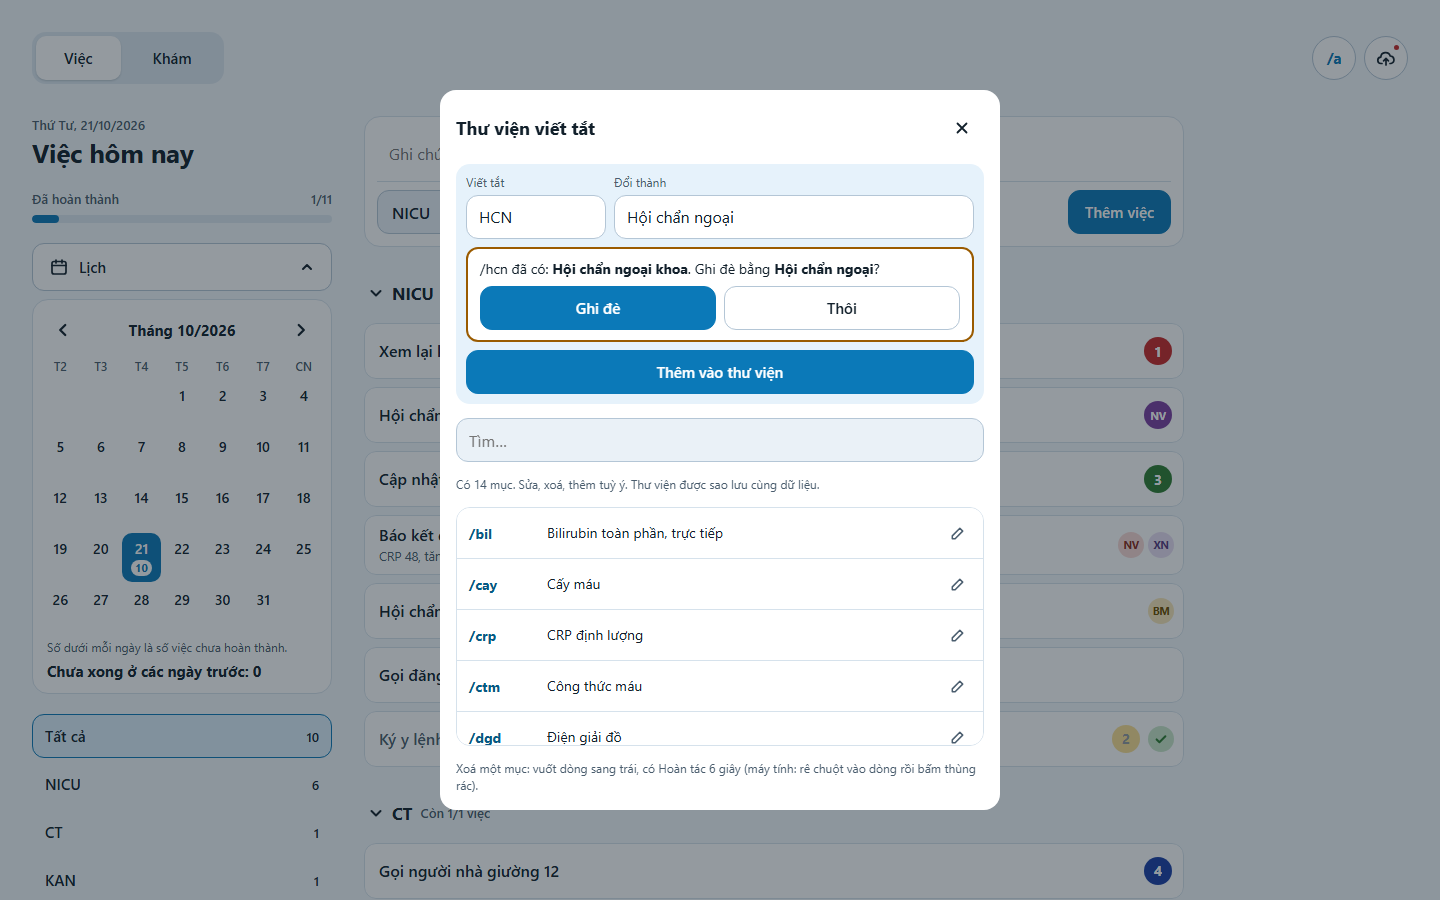
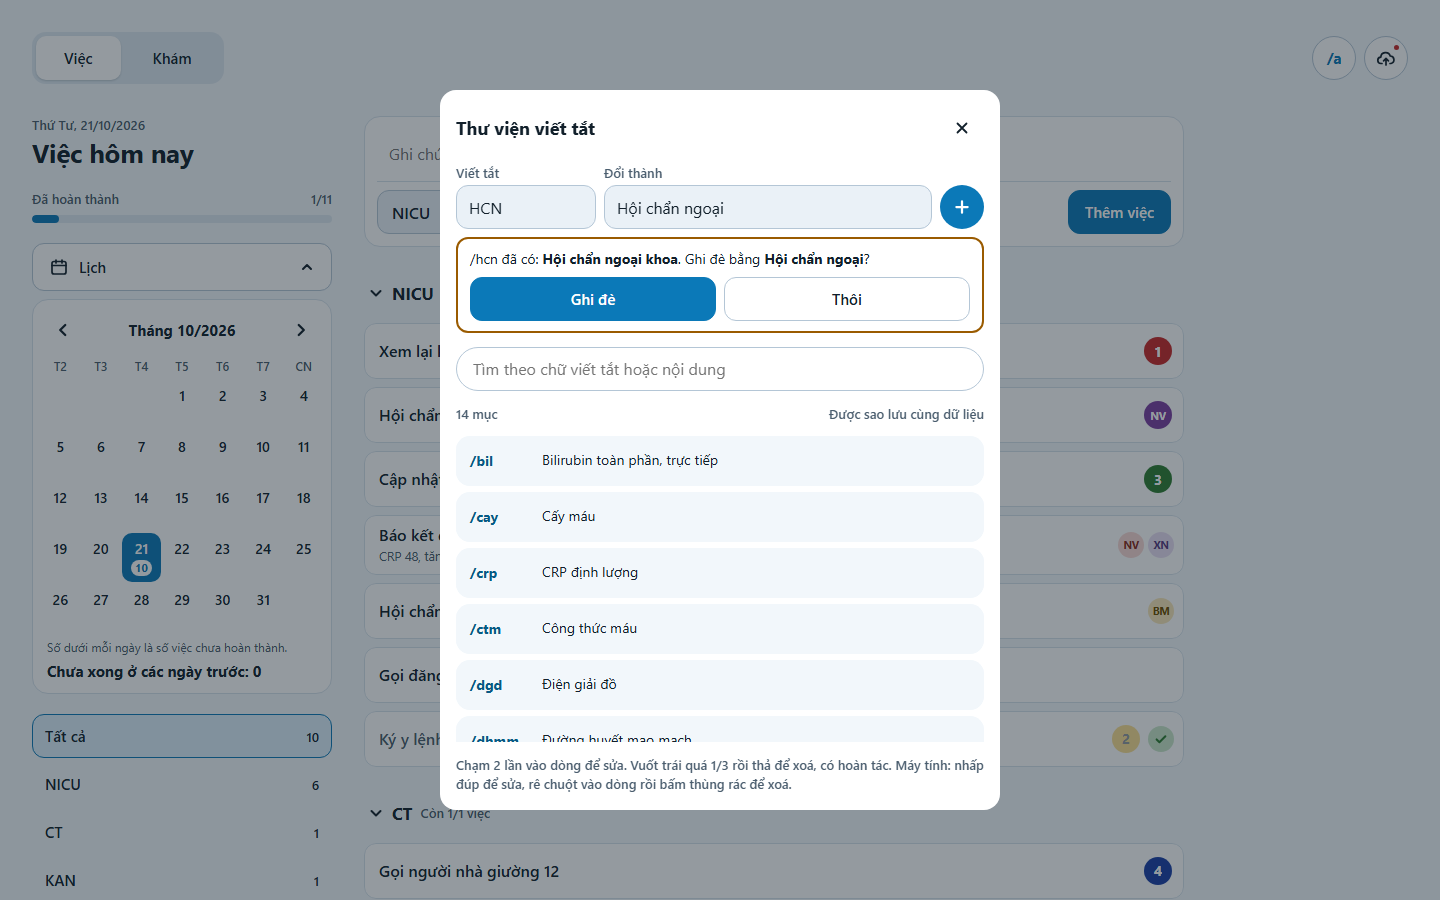
v9.3 đã duyệt: lưu ảnh chuẩn mới (không đổi app)

diff --git a/doi-agent/BAN_DO.md b/doi-agent/BAN_DO.md
@@ -84,5 +84,5 @@
 
 - Phiên bản: **v9.3** (đợt 3/6 của v9: ô thêm việc 1 dòng, viết tắt và thư viện kiểu mới), ngày 06/11/2026.
 - Lần sửa gần nhất: 06/11/2026 — v9.3: ô thêm việc iPhone một dòng (ô tròn "Ghi việc cần làm…" + nút "+"), chạm vào ô thì bung hàng chip khu và 5 nút nhãn, rời ô mà ô trống thì thu lại (nhãn về trống, khu về theo chip lọc; thu lại hoãn tới sau khi nhấc ngón); gợi ý viết tắt là hàng chip 44px ngay trên ô gõ; thanh "Đã đổi /key thành …" + Hoàn tác giữ 6 giây (bác sĩ quyết 06/11/2026, thay ~4 giây); thư viện bỏ bút chì, chạm 2 lần vào dòng để sửa; cách tính bàn phím iPhone dùng chung cho Sheet, thanh thêm việc và thanh Hoàn tác (thanh Hoàn tác nằm ngay trên ô thêm việc, không che). Trước đó 06/11/2026 — v9.2: bỏ ô tick đầu dòng việc và việc của bé (dòng bé ở tab Khám còn ô tick tới 9.4); vuốt phải 1/3 = xong, vuốt trái 1/3 = xoá, nền xanh nhạt / đỏ phấn không chữ; việc xong không gạch ngang, chữ `--muted`, tích xanh cuối dòng; thanh Hoàn tác 6 giây (xoá dòng, "Xoá việc" trong chi tiết, "Xoá việc đã xong" trả lại tất cả, thư viện viết tắt); `doneAt` ("Đã xong lúc hh:mm"); việc của bé có chạm 2 lần; chi tiết việc cao ~76% với khu vực dạng chip; nút xoá thùng rác chỉ trên PC khi rê chuột; mục "Cử chỉ" trong cài đặt. Trước đó 05/11/2026 — v9.1: màu nhãn mới (bảng 16a) qua biến `--tNV`…; thang chữ iPhone 5 bậc; tab, chip, nút đầu trang cao 44px, chip khu trống chữ nhạt không ghi số 0; đầu trang iPhone còn /a, đám mây, lịch (bỏ nút sáng/tối); bảng "Sao lưu và cài đặt" có Sáng / Tối / Theo máy; dòng nhắc cử chỉ chỉ 3 lần mở đầu hoặc khi danh sách trống; bảng dưới có thanh kéo, tiêu đề 17px; khai báo sẵn màu trạng thái (chưa dùng). Trước đó 29/10/2026 — v8.5: "Xoá việc" trong chi tiết việc dùng DongBtn (bảng trượt xuống rồi mới xoá); khi bảng đang đóng, nền vẫn hứng cú chạm (`.sheet-wrap.out .sheet{pointer-events:none}`). Trước đó (v8.4): vuốt xoá bám theo ngón tay (biến CSS `--p` trên dòng, không render lại danh sách; nút lộ dần từ phải sang trái, nhãn mờ dần; thả quá nửa thì mở); nút xoá chỉ biểu tượng thùng rác viền đỏ, không nền (`--p1`, `--p1rgb`), cảm ứng xoá ở `pointerup`; dòng thu gọn 260ms rồi mới xoá; mọi Sheet có chuyển động mở/đóng (nền mờ dần, bảng trượt lên; đóng xong mới gỡ); tôn trọng prefers-reduced-motion. Trước đó (v8.3): mọi bảng dưới (Sheet) vẽ thẳng vào `<body>` bằng createPortal để không bị phần đầu/thanh thêm việc che trên Safari iPhone; bảng điện thoại mang class `sheet-ph` để giữ cỡ chữ gọn; ô tên việc trong chi tiết việc xuống tối đa 3 dòng. Trước đó (v8.2): vuốt trái thì thẻ đứng yên, viền đỏ, nút "Xoá" đỏ hiện trong dòng (Việc, việc của bé, thư viện viết tắt; PC rê chuột hiện nút); chạm 2 lần vào việc mở bảng "chi tiết việc" cao ~50% (sửa tên, khu, nhãn, ghi chú, xoá); bỏ chạm 3 lần, bảng nhãn riêng, bảng ghi chú cũ, vòng nét đứt. Trước đó (v8.1): viết tắt, bảng `abbrevs` ở `db.version(2)`.
-- Việc tiếp theo: **đợt 9.4** (Khám: nút "+" trên dòng phòng, đã khám bằng vuốt phải, chi tiết bé mới), làm sau khi bác sĩ duyệt ảnh 9.3 (ảnh chuẩn 9.3 chưa lưu, chờ bác sĩ). Phiếu 9.3: `doi-agent/phieu-viec/2026-11-06-v9-3-o-them-viec-viet-tat.json` (đã xong). Phiếu 9.2: `doi-agent/phieu-viec/2026-11-05-v9-2-cu-chi-moi.json` (đã xong). Các đợt 9.4–9.6 theo kế hoạch sau đó. Thiết kế v9: đặc tả `doi-agent/thiet-ke-v9/THIET_KE_V9.md`, kế hoạch `doi-agent/phieu-viec/2026-11-05-v9-ke-hoach.json` (6 đợt 9.1–9.6), bản sao canvas `doi-agent/thiet-ke-v9/canvas/`. Đặc tả v9 thắng các quyết định cũ ghi ở mục 9 của nó.
+- Việc tiếp theo: **đợt 9.4** (Khám: nút "+" trên dòng phòng, đã khám bằng vuốt phải, chi tiết bé mới), bác sĩ đã duyệt ảnh 9.3 (06/11/2026), ảnh chuẩn đã lưu. Phiếu 9.3: `doi-agent/phieu-viec/2026-11-06-v9-3-o-them-viec-viet-tat.json` (đã xong). Phiếu 9.2: `doi-agent/phieu-viec/2026-11-05-v9-2-cu-chi-moi.json` (đã xong). Các đợt 9.4–9.6 theo kế hoạch sau đó. Thiết kế v9: đặc tả `doi-agent/thiet-ke-v9/THIET_KE_V9.md`, kế hoạch `doi-agent/phieu-viec/2026-11-05-v9-ke-hoach.json` (6 đợt 9.1–9.6), bản sao canvas `doi-agent/thiet-ke-v9/canvas/`. Đặc tả v9 thắng các quyết định cũ ghi ở mục 9 của nó.
 - Việc còn chờ bác sĩ quyết: xem mục "Chờ duyệt" trong `doi-agent/NHAT_KY.md`.

diff --git a/doi-agent/NHAT_KY.md b/doi-agent/NHAT_KY.md
@@ -7,7 +7,7 @@
 | # | Phát hiện | Mức | Đề xuất | Agent |
 |---|---|---|---|---|
 | 1 | Cuộn dọc danh sách và cử chỉ mới (vuốt phải/trái 1/3 trên Việc, việc của bé, thư viện) bằng ngón tay thật, cùng bàn phím iPhone thật với bảng chi tiết việc, chưa kiểm được bằng máy (Chromium headless) — bác sĩ thử trên iPhone. | Lưu ý | Bác sĩ thử cuộn dọc, vuốt phải/trái và gõ trong chi tiết việc trên iPhone; nếu vướng thì giao phiếu chỉnh. | Giao diện |
-| 3 | Ô thêm việc một dòng: gõ "/ctm" rồi Enter thì gửi luôn, không thay chữ (phiếu chỉ yêu cầu dấu cách). | Lưu ý | Hỏi bác sĩ có muốn Enter cũng thay chữ trước khi gửi không. | Giao diện |
+| 3 | Ô thêm việc: gõ "/ctm" rồi bấm "+" hoặc Enter thì lưu nguyên chữ tắt. | Lưu ý | Bác sĩ đồng ý 06/11/2026: bấm "+" hoặc Enter cũng thay chữ trước khi lưu; làm ở đợt 9.4. | Giao diện |
 | 5 | PC: ô lịch tháng 39×48px (có từ trước, không phải do v8.1). | Lưu ý | Phóng to ô nếu bác sĩ dùng chuột/chạm trên PC. | Giao diện |
 | 8 | Chữ chip khu trống `#6B7F91` do đặc tả chốt đo 4,14:1 trên trắng và 3,84:1 trên nền trang, dưới 4,5:1. | Lưu ý | Đề xuất đổi `--chipZero` (sáng) sang `#5E7183` (5,04:1 trên trắng, 4,67:1 trên nền trang). Hỏi bác sĩ. | Giao diện |
 | 9 | Dòng nhắc cử chỉ hiện cả khi danh sách của ngày trống, kể cả sau 3 lần mở đầu (đúng chữ đặc tả mục 2.3, khác hành vi cũ là ẩn khi trống). | Lưu ý | Hỏi bác sĩ giữ theo đặc tả hay chỉ hiện trong 3 lần mở đầu. | Giao diện |
@@ -39,7 +39,7 @@
 - Kết quả kiểm: kiểm thử độc lập ĐẠT sau 2 vòng sửa; `npm test` 108/108; script chụp ĐẠT 56 ảnh.
   - Vòng 1: thanh Hoàn tác xoá che trọn ô thêm việc; nay nằm ngay trên ô.
   - Vòng 2: chạm "Hoàn tác" khi ô đang bung và trống bị trượt vì ô thu lại ngay dưới ngón tay; nay việc thu lại hoãn tới sau khi nhấc ngón, và script dùng cú chạm thật.
-- Chưa thử trên iPhone thật; `visualViewport` giả không phải bàn phím thật. Ảnh chuẩn chưa lưu lại, chờ bác sĩ duyệt ảnh 9.3.
+- Chưa thử trên iPhone thật; `visualViewport` giả không phải bàn phím thật. Bác sĩ duyệt giao diện 9.3 ngày 06/11/2026; ảnh chuẩn đã lưu lại.
 - Không làm: không hiện dòng chú thích nhỏ dưới hàng nhãn và dưới ô gõ ở bảng 15b và bảng 5 (đặc tả không yêu cầu, chỗ trên bàn phím chật); đã báo bác sĩ.
 - Dọn "Chờ duyệt": bỏ #4 (hộp "Đã thay" sáng ở bản tối, đã hết), #15 và #16 (thanh Hoàn tác che ô thêm việc; bàn phím che thanh, đã xử lý); giữ ý còn lại ở #20. Thêm #20–#25.
 - Việc tiếp theo: đợt 9.4 (Khám: nút "+" trên dòng phòng, đã khám bằng vuốt phải, chi tiết bé mới) sau khi bác sĩ duyệt ảnh 9.3.

diff --git a/doi-agent/THIET_KE.md b/doi-agent/THIET_KE.md
@@ -75,6 +75,6 @@ Mỗi ảnh chụp iPhone (sáng và tối) chấm 8 mục. Mục nào **Không*
 
 ## 7. Ảnh tham chiếu
 
-- Ảnh đã duyệt: `doi-agent/anh-chuan/` (iPhone sáng/tối, PC). Thay đổi giao diện phải so với bộ này. Bộ này đã lưu lại cho v9.1 và v9.2 (bác sĩ duyệt 05/11 và 06/11/2026). Ảnh 9.3 chưa lưu chuẩn: chờ bác sĩ duyệt ảnh 9.3 rồi mới lưu.
+- Ảnh đã duyệt: `doi-agent/anh-chuan/` (iPhone sáng/tối, PC). Thay đổi giao diện phải so với bộ này. Bộ này đã lưu lại cho v9.1, v9.2 và v9.3 (bác sĩ duyệt 05/11 và 06/11/2026).
 - Thiết kế v9 đã duyệt 05/11/2026: `doi-agent/thiet-ke-v9/THIET_KE_V9.md`. Đã áp dụng đợt 9.1 (token, đầu trang, bảng cài đặt) đợt 9.2 (cử chỉ vuốt phải/trái 1/3, Hoàn tác, tích xanh, `doneAt`, chi tiết việc của bé, chi tiết việc cao ~76% với chip khu, mục "Cử chỉ" trong cài đặt) và đợt 9.3 (ô thêm việc 1 dòng, gợi ý chip trên ô gõ viết tắt, thanh "Đã đổi … thành …" 6 giây, thư viện bỏ bút chì; bàn phím iPhone chưa thử trên máy thật). Tab Khám mới và dòng bé vuốt phải (9.4), lịch mới (9.5), ngày làm việc (9.6) thuộc các đợt sau — chưa làm.
 - Bản thiết kế gốc: canvas "Ghi chú công việc theo khu vực", bảng "iPhone 15 – chữ gọn".
